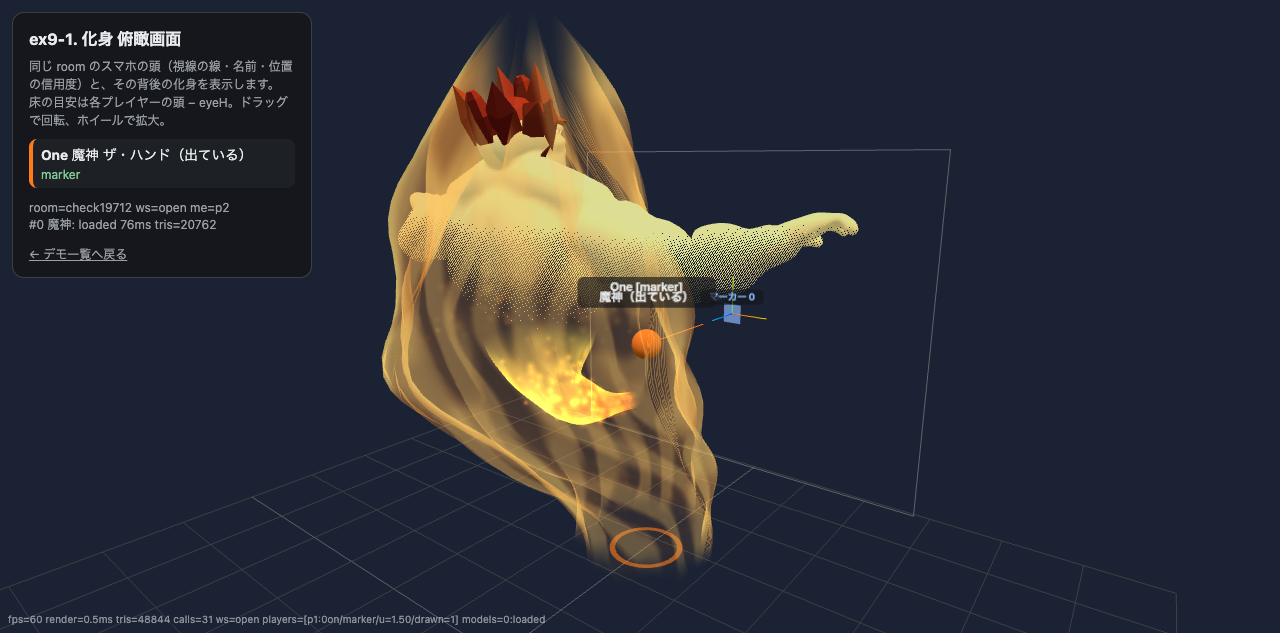
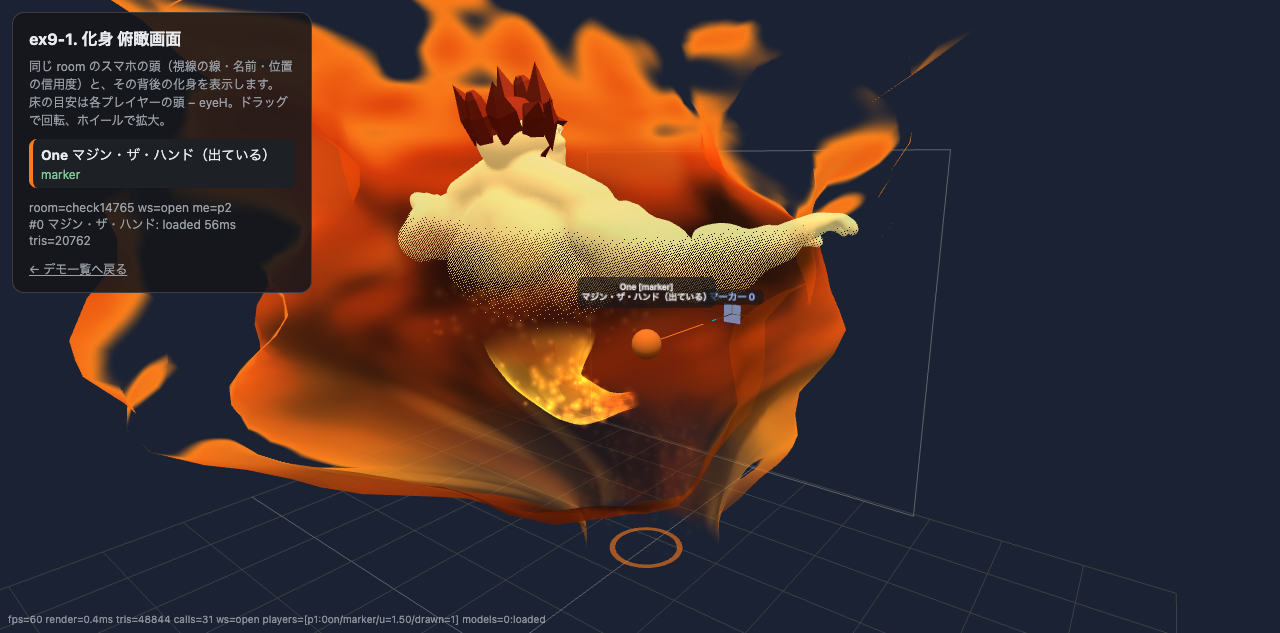
ex9-1: 炎を参考動画の見え方に作り直す（背後の濃い塊・ちぎれた輪郭）と、縦の縞の不具合を直す
レビュー指摘の反映:
- 不具合: 頂点で求めた角度をそのまま varying で渡していたため、±π をまたぐ 1 列で模様が潰れて縦の縞が出ていた。
  向きを渡して画素ごとに atan に戻し、模様は円周方向に周期のある値ノイズにした
- 見え方: 円筒の奥側の面だけを描き（BackSide）、人物と化身の背後に立つ濃い炎にした。上へ広がり、頂部と輪郭は
  ノイズでちぎれ、芯は暗く縁が明るい。太さは腕や翼を広げた化身が収まる幅（max(1.0, 縮尺 × 2.3) m）、高さは頭の 1.3 倍
- 描く順: 炎（−2）→ 化身の深度の前描画（−1。半透明の段で描くよう transparent に）→ 化身の色・粒・ペガサスの帯（0）。
  濃い炎が粒や帯を上塗りせず、化身が薄い出現・消去の途中に化身の形に炎が抜けない
- 他人用: 見ている人が相手の炎の内側に入ると消す（近くに立った相手の炎の内壁で視界が覆われないように）
- 主観: 体に沿う細い柱（0.55m）・濃さ半分・肩より上はノイズの計算前に捨てる。粒は炎を足す前の明るさ（uParticleK = 1）
- 粒の明るさ 35% は他人用だけ（uParticleK）。他人用の footAuraK は炎の足元〜背中にも平方根で効く
- 色は粒と同じ扱い（トーンマッピング・色空間の変換を挟まない）。ハッシュの縦のセル番号を折り返す（時刻で精度が落ちない）
- check:keshin の炎の画素検査はページ本体と同じ three を使う
- 「魔神 ザ・ハンド」の残り（README.md・fetch-keshin.mjs）をマジン・ザ・ハンドに

検証: tsc、test:keshin ALL PASS、check:keshin 119 PASS、build:keshin、主観スイープ（化身の画素は炎を足す前と同じ）、
鏡モードのスイープ画像で 4 体の見え方を確認。実機は未確認

diff --git a/demos/ex9-1-keshin/keshin-flame.ts b/demos/ex9-1-keshin/keshin-flame.ts
@@ -1,82 +1,144 @@
-// 人物から化身へつながる炎の膜。円筒の頂点を GPU で揺らし、面の連続性と尖った炎の輪郭を作る。
-// ワールドの形状なので左右の眼で視差が付く。画像・ポストエフェクト・毎フレームの頂点更新は不要。
+// 人物から化身の頭上へ吹き上がる炎。円筒の頂点を GPU で揺らして輪郭をうねらせ、表面の模様と炎の舌の切れ目は
+// フラグメントシェーダーのノイズで作る。ワールドの形状なので左右の眼で視差が付く。画像・ポストエフェクト・毎フレームの頂点更新は不要。
+//
+// 参考動画（2026-10-02）に合わせた見え方:
+//   - 人物と化身の「背後」に立つ濃い塊（円筒の奥側の面だけを描く。手前の面を描くと化身と人物が炎でかすむ）
+//   - 芯は暗く、輪郭と炎の舌の縁が明るい
+//   - 上へ行くほど広がり、頂部は高さの違う炎の舌にちぎれる（1 点にすぼめない）
+//   - 模様は上へ流れる不規則な乱れ（sin の重ね合わせだけだと規則的な縦縞のカーテンに見える）
 import * as THREE from "three";
 import { MASK_HEAD_GLSL } from "./keshin-occlusion";
 import type { MaskBinding } from "./keshin-occlusion";
 import type { WorldAuraUniforms } from "./keshin-aura";
 
+/** 円周方向に周期のある値ノイズ（x は period で一周する。円筒に巻いても継ぎ目が出ない） */
+const FLAME_NOISE_GLSL = /* glsl */ `
+// 縦のセル番号は時刻とともに増え続けるので折り返す（sin の引数が大きくなると、スマホの GPU で精度が落ちて模様が崩れる）
+float fHash(vec2 p) { return fract(sin(dot(vec2(p.x, mod(p.y, 1024.0)), vec2(127.1, 311.7))) * 43758.5453123); }
+float fNoise(vec2 p, float period) {
+  vec2 i = floor(p);
+  vec2 f = fract(p);
+  vec2 u = f * f * (3.0 - 2.0 * f);
+  float x0 = mod(i.x, period);
+  float x1 = mod(i.x + 1.0, period);
+  return mix(mix(fHash(vec2(x0, i.y)), fHash(vec2(x1, i.y)), u.x),
+             mix(fHash(vec2(x0, i.y + 1.0)), fHash(vec2(x1, i.y + 1.0)), u.x), u.y);
+}
+`;
+
 export function createFlame(uniforms: WorldAuraUniforms, mask: MaskBinding | null): THREE.Mesh {
-  // position.y = 高さ 0..1。円周の重複頂点も同じ角度の波で動くため継ぎ目が出ない。
+  // position.y = 高さ 0..1。上端は開いた円筒（頂部は炎の舌の切れ目で終わらせる）
   const geometry = new THREE.CylinderGeometry(1, 1, 1, 64, 40, true);
   geometry.translate(0, 0.5, 0);
   const material = new THREE.ShaderMaterial({
     uniforms: mask ? { ...uniforms, ...mask.shared, ...mask.owner } : uniforms,
     transparent: true,
     depthWrite: false,
-    // 奥側の面も描く。加算だけの白い光にせず、飽和した色の炎を背景へ重ねる。
-    side: THREE.DoubleSide,
+    // 奥側の面だけ描く（外から見ると人物と化身の背後の面、主観のように中から見ると周りの面）。
+    // 加算ではなく通常のアルファ合成で、背景を覆う濃い色の炎にする
+    side: THREE.BackSide,
     blending: THREE.NormalBlending,
     vertexShader: /* glsl */ `
-      uniform float uTime, uBurstK, uFlameH, uFlameR, uColumnR;
+      uniform float uTime, uBurstK, uFlameH, uFlameR, uColumnR, uInsideFade;
       uniform vec3 uSwirlC;
-      varying vec2 vFlame;
+      varying float vH, vOutK;
+      varying vec2 vDir;
       varying vec3 vWorld, vRadial;
       void main() {
         float h = position.y;
+        // 頂点の変形は角度の周期関数だけを使う（atan の ±π の跳びは sin の中で消える）
         float a = atan(position.z, position.x);
-        float t = uTime * (1.6 + uBurstK);
-        float tongues = 0.5 + 0.5 * sin(a * 7.0 + sin(a * 3.0 - t) * 1.1 - t * 1.8);
-        // 頂部は一様な輪にせず、背の違う炎の舌にする。
-        float top = 0.84 + 0.16 * tongues;
-        float y = h * uFlameH * top;
+        float t = uTime * (1.0 + 0.6 * uBurstK);
+        float y = h * uFlameH;
+        // 足元は人物を包む細い柱、背中から上は化身を包む太さへ。その先も上へ行くほど広がる
         float join = smoothstep(0.2, max(0.4, uSwirlC.y), y);
-        float taper = 1.0 - 0.96 * pow(h, 4.5);
-        float wave = sin(a * 9.0 - y * 3.8 + t * 3.0) * 0.09
-                   + sin(a * 5.0 + y * 6.0 - t * 4.0) * 0.05;
-        float r = mix(uColumnR, uFlameR, join) * taper * (1.0 + wave * (1.0 + uBurstK));
+        float baseR = mix(uColumnR, uFlameR, join) * (1.0 + 0.3 * h);
+        // 輪郭のうねり: 周期の違う大きな膨らみが上へ流れる（上ほど大きく、出現の勢いでさらに大きく）
+        float lobe = sin(a * 2.0 + y * 1.7 - t * 1.3) * 0.14
+                   + sin(a * 3.0 - y * 2.9 + t * 0.9 + 1.7) * 0.10
+                   + sin(a * 5.0 + y * 4.3 - t * 2.1 + 4.0) * 0.07
+                   + sin(a * 8.0 - y * 6.1 + t * 3.1 + 2.3) * 0.045
+                   + sin(a * 13.0 + y * 8.7 - t * 3.9 + 0.6) * 0.03;
+        float r = baseR * (1.0 + lobe * (0.5 + 0.9 * h) * (1.0 + 0.5 * uBurstK));
         vec3 radial = vec3(cos(a), 0.0, sin(a));
         vec3 p = vec3(0.0, y, uSwirlC.z * join) + radial * r;
         vec4 world = modelMatrix * vec4(p, 1.0);
         vWorld = world.xyz;
         vRadial = normalize(mat3(modelMatrix) * radial);
-        vFlame = vec2(a, h);
+        vH = h;
+        // 角度そのものを渡すと、±π をまたぐ 1 列だけ補間で 2π ぶん回って模様が潰れる（縦の縞）。向きを渡して画素ごとに角度へ戻す
+        vDir = radial.xz;
+        // 見ている人が炎の内側（または縁のすぐ外）にいるときは消す（他人用。近くの人の炎の内壁が視界を覆わないように）。
+        // カメラを炎の枠（足元・体の向き。回転と平行移動だけ）に戻し、その高さでの炎の中心と太さで内外を決める
+        vec3 camD = cameraPosition - modelMatrix[3].xyz;
+        vec3 camL = vec3(dot(modelMatrix[0].xyz, camD), dot(modelMatrix[1].xyz, camD), dot(modelMatrix[2].xyz, camD));
+        float yc = clamp(camL.y, 0.0, uFlameH);
+        float jc = smoothstep(0.2, max(0.4, uSwirlC.y), yc);
+        float rc = mix(uColumnR, uFlameR, jc) * (1.0 + 0.3 * yc / uFlameH);
+        float dc = length(camL.xz - vec2(0.0, uSwirlC.z * jc));
+        vOutK = mix(1.0, smoothstep(rc * 0.9, rc * 1.5, dc), uInsideFade);
         gl_Position = projectionMatrix * viewMatrix * world;
       }
     `,
     fragmentShader: /* glsl */ `
-      uniform float uTime, uAuraK, uPillarK, uBurstK, uFlameH, uColumnMaxH;
+      uniform float uTime, uAuraK, uPillarK, uBurstK, uFlameH, uFlameK, uColumnH, uColumnK, uColumnMaxH;
       uniform vec3 uColA, uColB, uEye;
       uniform vec2 uNear;
-      varying vec2 vFlame;
+      varying float vH, vOutK;
+      varying vec2 vDir;
       varying vec3 vWorld, vRadial;
+      ${FLAME_NOISE_GLSL}
       ${mask ? MASK_HEAD_GLSL : ""}
       void main() {
+        if (vOutK <= 0.0) discard;
         ${mask ? "if (keshinMasked(vWorld)) discard;" : ""}
-        float a = vFlame.x;
-        float h = vFlame.y;
-        float t = uTime * (1.6 + uBurstK);
-        // 周方向は整数周の sin に統一。縦の筋を高速に上へ流す。
-        float warp = sin(a * 3.0 + h * 8.0 - t * 2.0);
-        float flow = 0.5 + 0.5 * sin(a * 11.0 + warp * 1.7 - h * 19.0 + t * 6.0);
-        float detail = 0.5 + 0.5 * sin(a * 19.0 - h * 31.0 + t * 8.0);
-        float fire = smoothstep(0.22, 0.8, flow * 0.78 + detail * 0.22);
-        float edge = pow(1.0 - abs(dot(normalize(cameraPosition - vWorld), normalize(vRadial))), 1.8);
-        float reach = 1.0 - smoothstep(uPillarK - 0.12, uPillarK + 0.001, h);
-        float ends = smoothstep(0.0, 0.08, h) * (1.0 - smoothstep(0.88, 1.0, h));
-        // 主観は肩より上へ描かない。近距離フェードも既存の粒子と共有する。
-        float cap = 1.0 - smoothstep(uColumnMaxH - 0.2, uColumnMaxH, h * uFlameH);
+        // 一周で 0..1（ノイズ側が周期を持つので、±π の境目でも模様がつながる）
+        float u = atan(vDir.y, vDir.x) / 6.2831853 + 0.5;
+        float y = vH * uFlameH;
+        // 主観は肩より上を描かない。正面を向くと肩より上の壁が両眼いっぱいに入るので、ノイズを計算する前に捨てる
+        if (y >= uColumnMaxH) discard;
+        float t = uTime * (1.0 + 0.6 * uBurstK);
+        // 出現: 柱が伸びる分だけ下から伸びる（伸びている途中も先端は炎の舌の形）
+        float hh = vH / max(uPillarK, 0.001);
+        if (hh >= 1.0) discard;
+        // 上へ流れる乱れ。横にゆっくり曲げてから 3 段重ねる（縦に長い炎の筋になるよう、縦は粗く）
+        float warp = fNoise(vec2(u * 4.0, y * 0.7 - t * 0.5), 4.0) - 0.5;
+        vec2 p = vec2(u * 9.0 + warp * 2.2, y * 1.3 - t * 1.5);
+        float n = fNoise(p, 9.0) * 0.5
+                + fNoise(p * 2.0 + vec2(0.0, -t * 0.9), 18.0) * 0.3
+                + fNoise(p * 4.0 + vec2(0.0, -t * 1.7), 36.0) * 0.2;
+        // 形状の輪郭（視線と面が平行に近いところ）。0 = 正面を向いた面、1 = 輪郭
+        float edge = clamp(1.0 - abs(dot(normalize(cameraPosition - vWorld), normalize(vRadial))), 0.0, 1.0);
+        // 濃さ: 下は全面、上へ行くほどノイズの山だけが残って炎の舌になる。輪郭もノイズで削ってちぎれさせる（布のような滑らかな縁にしない）
+        float d = n + 0.58 - pow(hh, 1.25) * 1.2 - edge * edge * edge * (0.25 + 0.9 * (1.0 - n));
+        float body = smoothstep(0.0, 0.08, d);
+        if (body <= 0.0) discard;
+        // 縁（炎の舌・輪郭の切れ目の近く）が明るく、芯は暗い。芯の中にも乱れの濃淡を残す
+        float rim = 1.0 - smoothstep(0.0, 0.28, d);
+        float core = smoothstep(0.15, 0.7, d) * (0.55 + 0.45 * smoothstep(0.35, 0.7, n));
+        // 芯の中を上へ走る明るい筋
+        float streak = smoothstep(0.6, 0.9, fNoise(vec2(u * 22.0 + warp * 2.0, y * 1.6 - t * 3.0), 22.0));
+        vec3 bright = mix(uColA, uColB, 0.65);
+        vec3 color = mix(uColA, uColA * 0.14, core);
+        color = mix(color, bright, clamp(max(rim, edge * edge) * 0.9 + streak * 0.35 * (1.0 - rim), 0.0, 1.0));
+        float foot = smoothstep(0.0, 0.05, vH);
+        // 足元から背中まで: 他人用の「足元は控えめ」（uColumnK）を炎にも半分だけ掛ける
+        float low = mix(sqrt(clamp(uColumnK, 0.0, 1.0)), 1.0, smoothstep(uColumnH * 0.6, uColumnH, y));
+        // 主観は肩より上へ描かない。近距離フェードも粒子と共有する
+        float cap = 1.0 - smoothstep(uColumnMaxH - 0.2, uColumnMaxH, y);
         float nearK = uNear.y > 0.0 ? smoothstep(uNear.x, uNear.y, distance(vWorld, uEye)) : 1.0;
-        float alpha = (0.12 + fire * 0.38 + edge * 0.30) * ends * reach * cap * nearK
-                    * uAuraK * (1.0 + 0.25 * uBurstK);
-        vec3 color = mix(uColA, uColB, clamp(fire * 0.55 + edge * 0.35, 0.0, 1.0));
+        // 出切ったあと（uAuraK = AURA_SUSTAIN）も濃さを保つ。消去では uAuraK とともに消える
+        float strength = clamp(uAuraK * 1.6, 0.0, 1.0);
+        float alpha = body * mix(0.86, 1.0, rim) * foot * low * cap * nearK * strength * uFlameK * vOutK;
+        // 色は補助の粒子（keshin-aura.ts）と同じ扱い: トーンマッピング・色空間の変換を挟まずそのまま出す
         gl_FragColor = vec4(color, alpha);
-        #include <tonemapping_fragment>
-        #include <colorspace_fragment>
       }
     `,
   });
   const mesh = new THREE.Mesh(geometry, material);
   mesh.frustumCulled = false;
-  mesh.renderOrder = 1;
+  // 半透明の段の最初に描く: 炎 → 化身の深度（−1）→ 化身の色・粒・ペガサスの帯（0）→ 背中の流れ（2）。
+  // 後から描くと、濃い炎が手前の粒や帯を上塗りして隠す
+  mesh.renderOrder = -2;
   return mesh;
 }

diff --git a/demos/ex9-1-keshin/keshin-aura.ts b/demos/ex9-1-keshin/keshin-aura.ts
@@ -1,4 +1,4 @@
-// 化身のオーラ（連続した炎の膜 + 加算合成の補助粒子）。位置は頂点シェーダーで時刻から計算する
+// 化身のオーラ（背後に立つ炎 + 加算合成の補助粒子）。位置は頂点シェーダーで時刻から計算する
 // （CPU は uniform を書くだけ。粒子数 ?auraN= を増やしても JS の負荷は増えない）。
 //   - WorldAura: 足元から化身の頭上へ立ち上る炎 + 足元の柱 + 化身の腰（切断面）の渦。ワールドに置くので左右 2 眼で自然に立体に見える
 //   - PeripheralAura: 主観で視界の周り（周辺）にうっすら出すオーラ。カメラの子にして 0.6〜1.2m 先の実際の 3D 位置に置く
@@ -59,6 +59,9 @@ void main() {
 }
 `;
 
+/** 炎を背負っているときの補助の粒の明るさ（粒だけだった頃の 35%） */
+export const PARTICLE_K_WITH_FLAME = 0.35;
+
 export type WorldAuraUniforms = {
   uTime: { value: number };
   uAuraK: { value: number };
@@ -68,9 +71,15 @@ export type WorldAuraUniforms = {
   uColB: { value: THREE.Color };
   uColumnR: { value: number };
   uColumnH: { value: number };
-  /** 人物から化身の頭上まで伸びる炎の高さ・上側の半径 [m] */
+  /** 人物から化身の頭上まで伸びる炎の高さと、背中から上の基準の半径 [m]（上へ行くほど 1.3 倍まで広がる） */
   uFlameH: { value: number };
   uFlameR: { value: number };
+  /** 炎の濃さの倍率（主観は自分の体のまわりを塞がないよう薄くする） */
+  uFlameK: { value: number };
+  /** 見ている人が炎の内側にいるとき消すか（1 = 消す: 他人用。0 = 消さない: 主観は自分の炎の中にいる） */
+  uInsideFade: { value: number };
+  /** 補助の粒の明るさの倍率（炎の前で白く飛ばないよう他人用は控えめ。主観は炎を肩までで切るので従来の明るさ） */
+  uParticleK: { value: number };
   uSwirlC: { value: THREE.Vector3 };
   uSwirlR: { value: number };
   /** 渦の強さ（主観では渦が自分の頭のまわりに来て視界の中心を埋めるので 0） */
@@ -108,6 +117,9 @@ export class WorldAura {
       uColumnH: { value: 1.5 },
       uFlameH: { value: 3.5 },
       uFlameR: { value: 0.8 },
+      uFlameK: { value: 1 },
+      uInsideFade: { value: 1 },
+      uParticleK: { value: PARTICLE_K_WITH_FLAME },
       uSwirlC: { value: new THREE.Vector3() },
       uSwirlR: { value: 0.5 },
       uSwirlK: { value: 1 },
@@ -126,7 +138,7 @@ export class WorldAura {
       vertexShader: /* glsl */ `
         attribute vec4 aSeed;
         attribute float aKind;
-        uniform float uTime, uAuraK, uPillarK, uBurstK, uColumnR, uColumnH, uSwirlR, uSwirlK, uColumnMaxH, uColumnK, uSize, uViewportH;
+        uniform float uTime, uAuraK, uPillarK, uBurstK, uColumnR, uColumnH, uSwirlR, uSwirlK, uColumnMaxH, uColumnK, uParticleK, uSize, uViewportH;
         uniform vec3 uSwirlC, uColA, uColB, uEye;
         uniform vec2 uNear;
         varying float vAlpha;
@@ -167,7 +179,7 @@ export class WorldAura {
           vMaskWorld = world.xyz;
           // 目のすぐ近くの粒は消す（主観で視界を塞がない。他人用は uNear = 0）
           float nearK = uNear.y > 0.0 ? smoothstep(uNear.x, uNear.y, distance(world.xyz, uEye)) : 1.0;
-          vAlpha = alpha * flick * uAuraK * (1.0 + 0.8 * uBurstK) * nearK * 0.35;
+          vAlpha = alpha * flick * uAuraK * (1.0 + 0.8 * uBurstK) * nearK * uParticleK;
           vColor = mix(uColA, uColB, mixK);
           vec4 mv = viewMatrix * world;
           gl_Position = projectionMatrix * mv;

diff --git a/demos/ex9-1-keshin/keshin-view.ts b/demos/ex9-1-keshin/keshin-view.ts
@@ -1,4 +1,4 @@
-// 化身 1 体の描画部品（モデル + 炎の膜 + 足元の柱 + 腰の渦）。「自分用（主観）」と「他人用（俯瞰画面・段階 2 の相手）」の両方で使う。
+// 化身 1 体の描画部品（モデル + 背後の炎 + 足元の柱 + 腰の渦）。「自分用（主観）」と「他人用（俯瞰画面・段階 2 の相手）」の両方で使う。
 //   - 自分用: 腰の切断面を支点に前傾（?selfLean=）し、目から ?nearFade= m 以内を消す。見上げフェードは呼び出し側が fade で渡す
 //   - 他人用: 前傾なし。受信側の「信用できるか」による薄さは呼び出し側が fade で渡す
 // 配置の数学は keshin-math.ts（純粋関数・テスト済み）のモデル行列とクリッピング平面をそのまま使う。
@@ -72,6 +72,9 @@ const tmpBackDir = new THREE.Vector3();
 const tmpBack = new THREE.Vector3();
 const tmpWaist = new THREE.Vector3();
 
+/** 主観の炎の半径 [m]（足元の柱 0.45 より少し太いだけ。目から肩の縁まで 0.6m 前後・正面から 29° 下） */
+const SELF_FLAME_R = 0.55;
+
 export class KeshinView {
   readonly group = new THREE.Group();
   readonly spec: KeshinSpec;
@@ -117,6 +120,10 @@ export class KeshinView {
       this.aura.uniforms.uNear.value.set(0.2, 0.45);
       this.aura.uniforms.uSwirlK.value = 0;
       this.aura.uniforms.uColumnMaxH.value = opts.eyeH - 0.3;
+      // 炎も肩までで切れる（下を見たときだけ見える）。自分の体と床を塞がないよう薄くし、粒は炎を足す前の明るさのままにする
+      this.aura.uniforms.uFlameK.value = 0.5;
+      this.aura.uniforms.uInsideFade.value = 0;
+      this.aura.uniforms.uParticleK.value = 1;
     }
     this.group.add(this.holder, this.aura.points);
     if (this.stream) {
@@ -308,8 +315,10 @@ export class KeshinView {
       au.uColumnH.value = this.look ? Math.max(0.3, eyeH - 0.35) : cutH;
       au.uColumnK.value = this.look ? this.look.footAuraK : 1;
       au.uColumnR.value = 0.45;
-      au.uFlameH.value = cutH + (MODEL_HEIGHT_M - this.loaded.spec.cutY) * scale + 0.35;
-      au.uFlameR.value = Math.max(0.65, scale * 1.35);
+      // 炎は化身の頭上を越えて吹き上がる（頂部の 3 割ほどは炎の舌にちぎれる）。太さは腕や翼を広げた化身が収まる幅
+      au.uFlameH.value = (cutH + (MODEL_HEIGHT_M - this.loaded.spec.cutY) * scale) * 1.3;
+      // 主観は体に沿う細い柱のまま（太くすると、正面を向いたとき肩の高さの縁が視界の中心に入る。check:keshin の「各眼の中心 50% はほぼ空」）
+      au.uFlameR.value = this.opts.mode === "self" ? SELF_FLAME_R : Math.max(1.0, scale * 2.3);
       au.uSwirlC.value.set(0, cutH, -back);
       au.uSwirlR.value = 0.55 * scale * 1.6;
       au.uViewportH.value = u.viewportH;

diff --git a/demos/ex9-1-keshin/keshin-assets.ts b/demos/ex9-1-keshin/keshin-assets.ts
@@ -234,7 +234,9 @@ export function createKeshinInstance(
     : null;
 
   // 深度だけ書く複製のマテリアル（インスタンスで 1 つ。スキン・モーフはオブジェクト側の属性で自動）
-  const depthMaterial = new THREE.MeshBasicMaterial({ colorWrite: false });
+  // transparent にするのは描く順のため（色は書かない）: 背後の炎（keshin-flame.ts。renderOrder −2）→ この深度（−1）→ 体の色（0）。
+  // 不透明のままだと不透明の段で炎より先に深度が書かれ、化身がまだ薄い出現・消去の途中に、化身の形に炎が抜けて背景が見える
+  const depthMaterial = new THREE.MeshBasicMaterial({ colorWrite: false, transparent: true });
   depthMaterial.clippingPlanes = [plane];
   if (nearUniforms || mask || dissolve) addKeshinShader(depthMaterial, nearUniforms, mask, "depth", dissolve);
 
@@ -279,7 +281,7 @@ export function createKeshinInstance(
     depth.scale.set(1, 1, 1);
     depth.frustumCulled = false;
     if (mesh.morphTargetInfluences) depth.morphTargetInfluences = mesh.morphTargetInfluences;
-    // 深度を先に書く（同じ距離の半透明より前に描かれるよう不透明のまま。renderOrder も念のため下げる）
+    // 深度を体の色より先に書く（半透明の段の中で renderOrder を下げて先に描く。炎はさらに前の −2）
     depth.renderOrder = -1;
     mesh.add(depth);
   }

diff --git a/demos/ex9-1-keshin/README.md b/demos/ex9-1-keshin/README.md
@@ -65,10 +65,12 @@ npm run dev               # dev サーバーだけが /local-assets/keshin/*.glb
   1×1 のレンダーターゲットへ描くと出力の色空間が Linear になって別のプログラムになり、`renderer.compile` はクリッピングの状態を設定しないので平面の数が違うプログラムになるため（どちらも見上げたときに作り直しが走っていた）。
   時間とリンクしたプログラムの数は HUD の `warmup=`（例 `model 32ms programs=4→8`）と実機ログの `event=warmup` に出る。`check:keshin` が「初めて見上げたとき・化身が初めて出たときに新しくリンクされるプログラムが 0 本」を確かめる。
   読み込み直後の上半身の測定（全頂点 × 2 姿勢を CPU でスキン変形）の時間も `measure=` に出る（PC で 14 / 23 / 16ms。30ms を超えないので事前計算の JSON は作っていない）。
-- オーラは人物から化身の頭上へつながる連続した炎の膜と、補助の光の粒で描く。炎は円筒の表面を頂点シェーダーで揺らし、高さの異なる尖った炎の舌と上へ流れる筋を作る（`keshin-flame.ts`）。通常のアルファ合成で各化身の色を残し、粒は加算合成・従来の明るさの 35% に抑える。炎・粒とも時刻と共有 timeline の uniform だけで動き、CPU で頂点を更新しない。
-  炎も人の形のマスク・信用度のフェード・先行コンパイルの対象。主観では肩より上を消して正面の視界を空ける。`?auraN=0` でワールドの炎と粒を止める（背中の流れは `?streamK=0`）。炎の追加形状は 5,120 三角形 / 化身。
+- オーラは人物と化身の背後に立って頭上へ吹き上がる炎と、補助の光の粒で描く（`keshin-flame.ts`）。炎は開いた円筒の**奥側の面だけ**を描く（手前の面も描くと化身と人物が炎でかすむ。外から見ると背後の面、主観のように中から見ると周りの面になる）。足元は人物を包む太さ、背中から上は腕や翼を広げた化身が収まる太さ（`max(1.0, 縮尺 × 2.3)` m）で、上へ行くほど広がり、高さは化身の頭の 1.3 倍。輪郭のうねりは頂点シェーダー、模様と炎の舌の切れ目はフラグメントシェーダーの周期つきノイズで作り、輪郭もノイズで削ってちぎれさせる。芯は暗く（色の 14%）、切れ目と輪郭の近くが明るい。通常のアルファ合成で、出切ったあとも濃さを保つ。粒は加算合成で、他人用は従来の明るさの 35%（`PARTICLE_K_WITH_FLAME`）、主観は従来のまま。炎・粒とも時刻と共有 timeline の uniform だけで動き、CPU で頂点を更新しない。
+  炎も人の形のマスク・信用度のフェード・先行コンパイルの対象。主観では肩より上を消して正面の視界を空け、太さは体に沿う 0.55m、濃さも半分にする（下を見たとき自分の体と床を塞がない。他人用と同じ太さにすると、正面を向いたとき肩の高さの縁が視界の中心に入る）。他人用は、見ている人がその炎の内側（太さの 0.9〜1.5 倍より内）に入ると消す（近くに立った相手の炎の内壁で視界が覆われないように。主観スイープで 4 台が同じ位置に立ったとき、他の 3 人の炎で化身が見えなくなって分かった）。他人用の `?footAuraK=`（足元は控えめ）は炎の足元から背中までにも平方根で効く。`?auraN=0` でワールドの炎と粒を止める（背中の流れは `?streamK=0`）。炎の追加形状は 5,120 三角形 / 化身（描くのは奥側の半分）。
+  角度は頂点からフラグメントへ「向き」で渡し、画素ごとに `atan` で戻す（角度のまま渡すと ±π をまたぐ 1 列だけ補間で 2π ぶん回り、縦の細かい縞が出る。最初の実装の不具合）。色は粒と同じくトーンマッピング・色空間の変換を挟まない。
+  描く順は「炎（renderOrder −2）→ 化身の深度の前描画（−1。半透明の段で描くよう `transparent` にした）→ 化身の色・粒・ペガサスの帯（0）→ 背中の流れ（2）」。炎を後に描くと濃い炎が粒や帯を上塗りし、深度を不透明の段で先に書くと、化身がまだ薄い出現・消去の途中に化身の形に炎が抜けて背景が見える。
   視界の周りのオーラはカメラの子で 0.6〜1.2m 先の実際の 3D 位置に置く（ポストエフェクトは StereoEffect と相性が悪いので使わない）。
-- 2026-10-02 の参考動画（8.45 秒）との比較: 本家は人物を包む連続した炎が上へ吹き上がり、その中から化身が現れる。従来の実装は小さな粒・腰の渦・細い背中の光が中心で、炎の面と輪郭のうねりが不足していたため上記の膜を追加した。動画には複数の化身の短いカットが含まれるため、共通する炎の形・動きを参考にし、既存 4 体の色と 1.5 秒の出現 / 1.0 秒の消去は維持する。カット割り・カメラズーム・原作固有の化身シルエット形成は再現対象に含めない。
+- 2026-10-02 の参考動画（8.45 秒）との比較: 本家は人物を包む連続した炎が上へ吹き上がり、その中から化身が現れる。従来の実装は小さな粒・腰の渦・細い背中の光が中心で、炎の面と輪郭のうねりが不足していたため上記の炎を追加した。最初の版（薄い半透明の膜・上で 1 点にすぼまる・化身の胴と同じ幅・手前の面が化身に重なる・規則的な縦縞）は動画と方向が違ったので、濃い塊・上で広がる・化身より太い・背後だけ・不規則な乱れに作り直した（2026-10-03）。動画には複数の化身の短いカットが含まれるため、共通する炎の形・動きを参考にし、既存 4 体の色と 1.5 秒の出現 / 1.0 秒の消去は維持する。カット割り・カメラズーム・原作固有の化身シルエット形成は再現対象に含めない。
   視線から 25° 以内は空け、外側ほど濃く、小さな火の粉が下から上へ立ち上って消える。片目の視野の縁に大きく柔らかい低アルファのもやを置く。
 - マーカーの枠は `track` が `marker` のときだけ描く（見失っている間は最後のアンカーのままなので、ずれた位置に出て紛らわしい）。
 - PC のフェイクカメラの映像の左上に出る黄色い横長の帯は、共通のフェイクカメラ（`passthrough-camera.ts` の `drawCheckerboard`）の「映像が更新されている」ことを示す動くバー。実機には出ない。
@@ -234,7 +236,7 @@ npm run dev               # dev サーバーだけが /local-assets/keshin/*.glb
 | `keshin-view.ts` | 化身 1 体の描画部品（自分用 / 他人用）。モデル + 足元の柱 + 腰の渦 |
 | `keshin-assets.ts` | GLB の読み込み・上半身の前面と頭の測定・インスタンス（makeGhost・クリッピング・目の近くを消す・決めポーズ）・代わりの人型 |
 | `keshin-aura.ts` | オーラの粒子（足元の柱と腰の渦 / 視界の周り） |
-| `keshin-flame.ts` | 人物から化身の頭上へつながる炎の膜（GPU の輪郭変形・上昇する炎の筋） |
+| `keshin-flame.ts` | 人物と化身の背後から頭上へ吹き上がる炎（GPU の輪郭変形・周期つきノイズの模様と炎の舌） |
 | `keshin-math.ts` | 純粋な数学（体の向き・配置・フェード・信用度） |
 | `keshin-client.ts` | WebSocket クライアント |
 | `remote-keshins.ts` | 段階 2: 相手の化身（配置・信用度・なめらかさ） |

diff --git a/README.md b/README.md
@@ -22,7 +22,7 @@
 | [08. MR Splatoon](./demos/08-splatoon/) | 四方の壁と床の箱型コートに、パーの間、手からインクを連射（グーで補充）。入室後は自由に塗れる練習、対戦（1分。途中終了も可）の開始はPCの[俯瞰画面](./demos/08-splatoon/overview.html)から。全員が自分の色で塗り合う個人戦 | スマートフォン1台以上、壁に貼ったマーカー、対戦を始めるPC（俯瞰画面） |
 | [ex8-1. ゴッドハンド](./demos/ex8-1-god-hand/) | 番外編: パーの手を突き出すと巨大な金色の手が実体化し、飛んでくるシュートをキャッチする1人用ミニゲーム（通信なし） | スマートフォン1台、壁に貼ったマーカー |
 | [09. Person ID](./demos/09-person-id/) | カメラに映っている人をMediaPipe Poseで検出し、ネットワーク上のPlayerの位置と照合して「この人 = Player B」と名札を付ける（顔認識なし） | スマートフォン2台、壁に貼ったマーカー |
-| [ex9-1. 化身](./demos/ex9-1-keshin/) | 番外編: ボタン1つで自分の背後に化身（魔神 ザ・ハンド / 魔神ペガサスアーク / 剣聖ランスロット / 奏者マエストロ。参加順）を出す。足元からオーラが吹き上がり、上半身が腰の渦からせり上がる。見上げると前に傾いた自分の化身が見え、PCの[俯瞰画面](./demos/ex9-1-keshin/overview.html)では本人の背後に出る。段階2では相手の背中にも化身が出て、カメラに写った人の形（MediaPipe Poseのsegmentation mask）で相手の化身を隠す。iPadの前面カメラを鏡にする[鏡モード](./demos/ex9-1-keshin/mirror.html)では、写った人（MediaPipe Pose）の背後にその人の化身が出る（段階1は実機確認済み、段階2と鏡モードはPC確認済み・実機未確認。モデルはdevサーバーだけが配る: `npm run fetch:keshin`。化身だけ Cloudflare に公開している: [iPhone](https://mobile-mr-keshin.na2kera.workers.dev/demos/ex9-1-keshin/) / [iPad の鏡](https://mobile-mr-keshin.na2kera.workers.dev/demos/ex9-1-keshin/mirror) / [PC の俯瞰](https://mobile-mr-keshin.na2kera.workers.dev/demos/ex9-1-keshin/overview)） | スマートフォン1台以上、壁に貼ったマーカー、PC（俯瞰画面） |
+| [ex9-1. 化身](./demos/ex9-1-keshin/) | 番外編: ボタン1つで自分の背後に化身（マジン・ザ・ハンド / 魔神ペガサスアーク / 剣聖ランスロット / 奏者マエストロ。参加順）を出す。足元からオーラが吹き上がり、上半身が腰の渦からせり上がる。見上げると前に傾いた自分の化身が見え、PCの[俯瞰画面](./demos/ex9-1-keshin/overview.html)では本人の背後に出る。段階2では相手の背中にも化身が出て、カメラに写った人の形（MediaPipe Poseのsegmentation mask）で相手の化身を隠す。iPadの前面カメラを鏡にする[鏡モード](./demos/ex9-1-keshin/mirror.html)では、写った人（MediaPipe Pose）の背後にその人の化身が出る（段階1は実機確認済み、段階2と鏡モードはPC確認済み・実機未確認。モデルはdevサーバーだけが配る: `npm run fetch:keshin`。化身だけ Cloudflare に公開している: [iPhone](https://mobile-mr-keshin.na2kera.workers.dev/demos/ex9-1-keshin/) / [iPad の鏡](https://mobile-mr-keshin.na2kera.workers.dev/demos/ex9-1-keshin/mirror) / [PC の俯瞰](https://mobile-mr-keshin.na2kera.workers.dev/demos/ex9-1-keshin/overview)） | スマートフォン1台以上、壁に貼ったマーカー、PC（俯瞰画面） |
 | [10. MR Golf](./demos/10-golf/) | 各ラウンド一人一打のニアピン勝負。全員の一打後は結果を保持し、PCの俯瞰画面から次の配置へ進める。カップは正面の遠めに置き、平坦・横勾配・低い障害物の3種類で難しくする。カップイン優先・残り距離で順位点を付け、3ラウンドの合計点で勝負。視線＋タップ／Aで狙いを固定し、Joy-Conを振る（未設定の狙いは正面） | スマートフォン1台以上、壁と床に貼ったマーカー、Joy-Conを繋いだPC（[俯瞰画面](./demos/10-golf/overview.html)、Chrome。無ければ画面長押しで溜め打ち） |
 
 Phase 1〜8は完了しています（MRバレーボール・Surface Mapping・MRスプラトゥーンはiPhone実機で確認済み。Phase 6-2のMRダーツのみ実機未確認）。Phase 9（現実の人物との対応）とPhase 10（MRゴルフ）はPCでの確認まで済んでいて、実機は未確認です。次はその実機確認とSDK化へ進む予定です。詳しい構想とロードマップは[docs/CONCEPT.md](./docs/CONCEPT.md)を参照してください。
